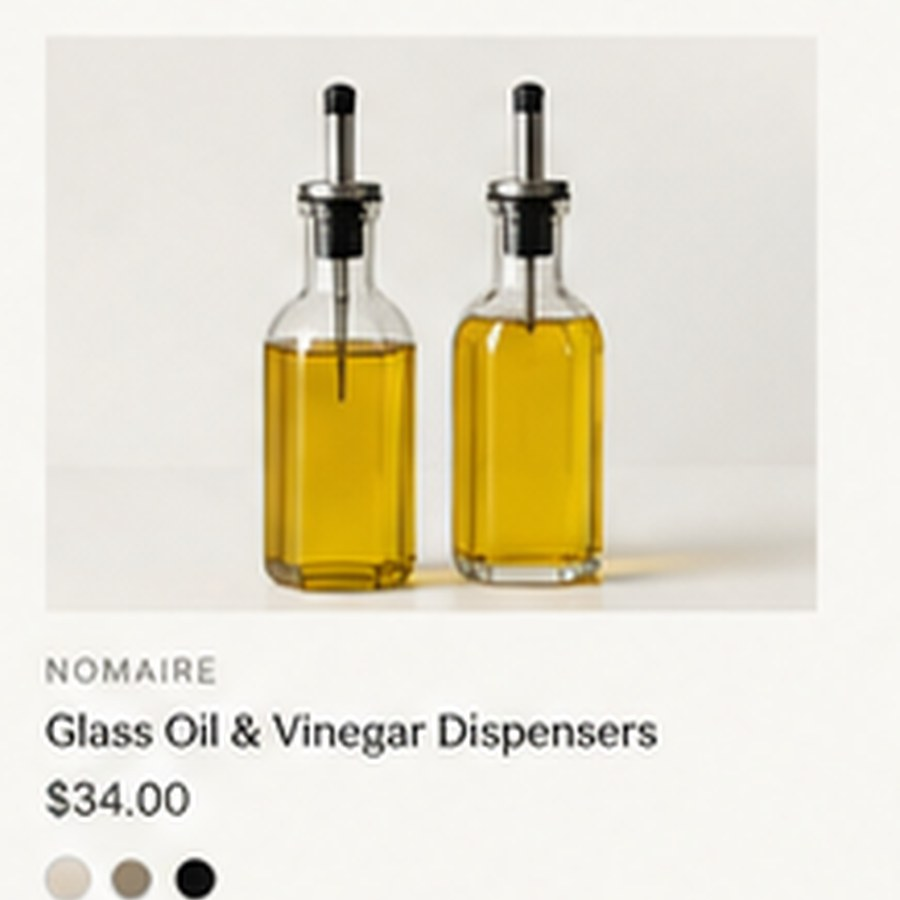
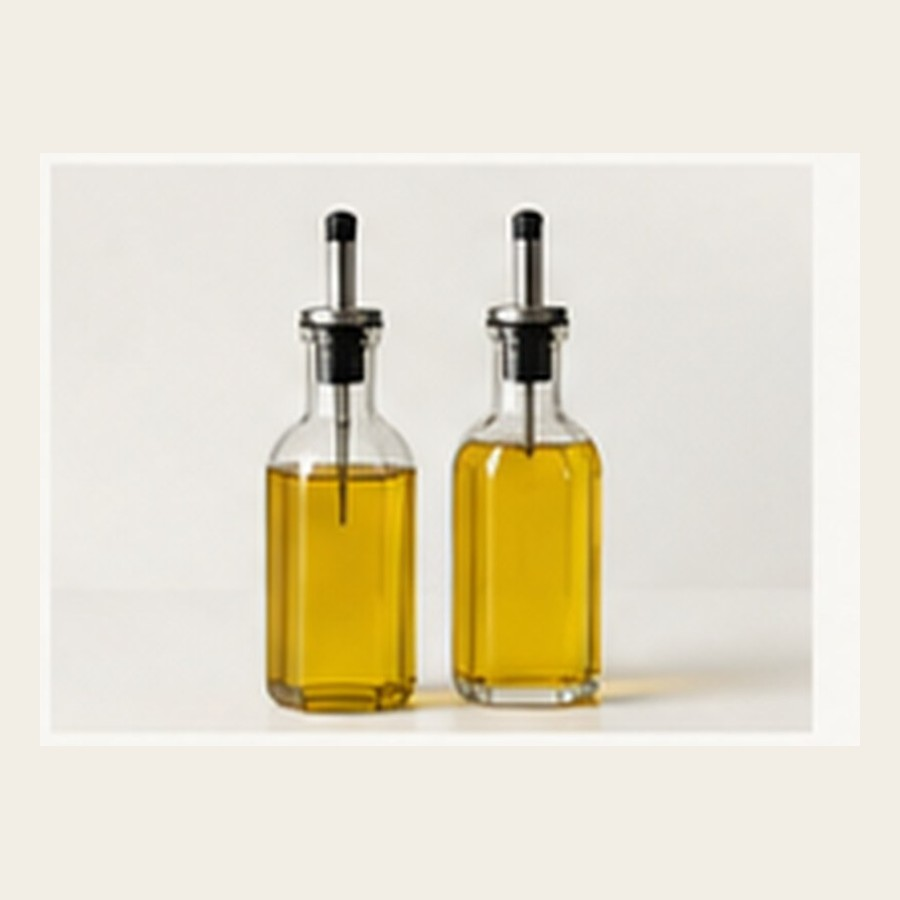
Add files via upload

Changed region(s): [[0.0311, 0.0933, 0.9022, 0.84], [0.0311, 0.8711, 0.2489, 1.0], [0.9022, 0.5911, 0.9333, 0.6222]]

diff --git a/README.md b/README.md
@@ -48,3 +48,7 @@ Upload the project contents to a public repository and enable Pages from Setting
 
 ## V2 Image Repair
 The V2 update replaces the empty/incorrect category and Journal panels with individual local image files. The rest of the storefront remains unchanged.
+
+
+## V3 Image Repair
+Product card images were rebuilt from the clean photography area of the source assets. Embedded catalog labels, prices, and UI text are removed; each product now uses a single centered product photograph.
